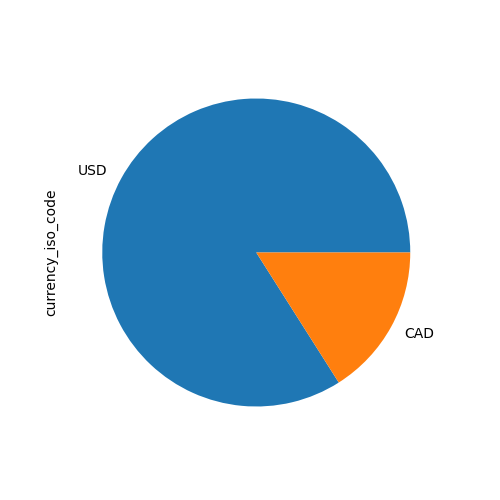
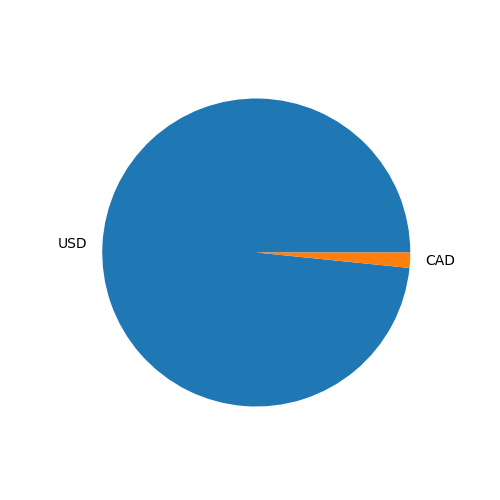
add big query

diff --git a/hearbly/static/CSS/app.css b/hearbly/static/CSS/app.css
@@ -351,6 +351,52 @@ h2{
         opacity: 0;
     }
 }
+.pulse_google_cloud{
+    height: 150px;
+    width: 150px;
+    background: linear-gradient(
+        #c53939,
+        #f77c4c
+    );
+    position: absolute;
+    margin: auto;
+    left: 260px;
+    right: 0;
+    top: 180px;
+    bottom: 0;
+    border-radius: 50%;
+    display: grid;
+    place-items: center;
+    font-size: 50px;
+    color: #ffffff;
+}
+.pulse_google_cloud:before,
+.pulse_google_cloud:after{
+    content: "";
+    position: absolute;
+    height: 100%;
+    width: 100%;
+    background-color: #c41c1c;
+    border-radius: 50%;
+    z-index: -1;
+    opacity: 0.7;
+}
+.pulse_google_cloud:before{
+    animation: pulse 2s ease-out infinite;
+}
+.pulse_google_cloud:after{
+    animation: pulse 2s 1s ease-out infinite;
+}
+@keyframes pulse{
+    100%{
+        transform: scale(2.5);
+        opacity: 0;
+    }
+}
+.pulse_google_cloud.show{
+    visibility: hidden;
+    opacity: 0;
+}
 .app_type,
 .app_type_center,
 .app_type_two{
@@ -359,6 +405,21 @@ h2{
     display: flex;
     justify-content: center;
     border: none;
+}
+.urlme{
+    padding: 16px 150px 16px 150px;
+    border: none;
+    box-shadow: 5px 5px 4px #949497;
+    height: 40%;
+    transition: all 0.5s linear;
+    margin-top: 3%;
+    visibility: hidden;
+    opacity: 0;
+}
+.urlme.show{
+    visibility: visible;
+    opacity: 1;
+    transition: all 0.5s linear;
 }
 .app_one,
 .app_three,
@@ -377,15 +438,15 @@ h2{
     transition: all 0.3s linear;
 }
 .app_one:hover{
-    background-color: rgb(193, 196, 214);
+    background-color: rgb(18, 155, 13);
     transition: all 0.3s linear;
 }
 .app_four:hover{
-    background-color: rgb(193, 196, 214);
+    background-color: rgb(13, 86, 170);
     transition: all 0.3s linear;
 }
 .app_three:hover{
-    background-color: rgb(193, 196, 214);
+    background-color:rgb(212, 39, 39);
     transition: all 0.3s linear;
 }
 .image-upload input[type = submit]{

diff --git a/hearbly/templates/google_cloud_data_base.html b/hearbly/templates/google_cloud_data_base.html
@@ -1,0 +1,45 @@
+{% extends "base_app.html" %}
+{% block test %}
+<title>{{title}}</title>
+<div class="app_data">
+    <div class="app_data_title">
+        <h2>Welcome To Hearbly Data System</h2>
+        <h3>We ask you to respect the files mentioned below to get the best results</h3>
+    </div>
+    {% if message %}
+    <p style="color:red;">{{message}}</p>
+    {% endif %}
+        <div class="app_type">
+            <div class="app_one">
+                <a href="/Data Base">
+                    <img src="{{url_for('static' , filename = 'APPLICATION/excel.png')}}">
+                    <h3>Excel Document</h3>
+                </a>
+            </div>
+        </div>
+        <div class="app_type_center">
+            <form action="/Data Base Bigquery" method="POST">
+                <input oninput="submit()" name="big_query" class="urlme" type="text" placeholder="Write The SQL Of The Project" required> 
+            </form>
+            <div class="pulse_google_cloud" onclick="show_me()">
+                <div class="image-upload">   
+                    <img src="{{url_for('static' , filename ='IMAGES/data_base_picture.png')}}"/>
+                </div>
+            </div>
+        </div>
+        <div class="app_type_two">
+            <div class="app_three">
+                <a href="/Data Base Bigquery">
+                    <img src="{{url_for('static' , filename = 'APPLICATION/google.png')}}">
+                    <h3>Google Cloud</h3>
+                </a>
+            </div>
+            <div class="app_four">
+                <a href="#">
+                    <img src="{{url_for('static' , filename = 'APPLICATION/word.png')}}">
+                    <h3>Word Document</h3>
+                </a>
+            </div>
+        </div>
+    </div>
+{% endblock test %}

diff --git a/hearbly/templates/app.html b/hearbly/templates/app.html
@@ -11,8 +11,10 @@
         {% endif %}
             <div class="app_type">
                 <div class="app_one">
-                    <img src="{{url_for('static' , filename = 'APPLICATION/excel.png')}}">
-                    <h3>Excel Document</h3>
+                    <a href="/Data Base">
+                        <img src="{{url_for('static' , filename = 'APPLICATION/excel.png')}}">
+                        <h3>Excel Document</h3>
+                    </a>
                 </div>
             </div>
             <div class="app_type_center">
@@ -27,12 +29,16 @@
             </div>
             <div class="app_type_two">
                 <div class="app_three">
-                    <img src="{{url_for('static' , filename = 'APPLICATION/google.png')}}">
-                    <h3>Google Cloud</h3>
+                    <a href="/Data Base Bigquery">
+                        <img src="{{url_for('static' , filename = 'APPLICATION/google.png')}}">
+                        <h3>Google Cloud</h3>
+                    </a>
                 </div>
                 <div class="app_four">
-                    <img src="{{url_for('static' , filename = 'APPLICATION/word.png')}}">
-                    <h3>Word Document</h3>
+                    <a href="#">
+                        <img src="{{url_for('static' , filename = 'APPLICATION/word.png')}}">
+                        <h3>Word Document</h3>
+                    </a>
                 </div>
             </div>
         </div>

diff --git a/hearbly/templates/data_base.html b/hearbly/templates/data_base.html
@@ -32,7 +32,7 @@
                 <p>A graphe that contient all payment amount from all client </p>
             </div>
             <div class="data_base_plat">
-                <img src="../static/PYPLOT/plot.png">
+                <img src="{{url_for('static' , filename = 'PYPLOT/plot.png')}}">
             </div>
         </div>
         {% endif %}
@@ -42,7 +42,7 @@
                 <p>A graphe that contient the payment Type</p>
             </div>
             <div class="data_base_piee">
-                <img src="../static/PIEPLOT/pie.png">
+                <img src="{{url_for('static' , filename = 'PIEPLOT/pie.png')}}">
             </div>
         </div>
     </div> 

diff --git a/hearbly/static/JS/script.js b/hearbly/static/JS/script.js
@@ -13,3 +13,9 @@ function menu(){
 function submit(){ 
     document.submit.submit()
 }
+function show_me(){
+    const urlme = document.querySelector(".urlme")
+    const pusle = document.querySelector(".pulse_google_cloud")
+    urlme.classList.toggle('show')
+    pusle.classList.toggle('show')
+}

diff --git a/hearbly/static/CSS/data_base.css b/hearbly/static/CSS/data_base.css
@@ -130,10 +130,10 @@ p{
     border: none;
 }
 .data_base_piee img{
-    width: 400px;
-    height: 400px;
+    width: 100%;
+    height:100%;
 }
 .data_base_plat img{
-    width: 900px;
-    height: 400px;
+    width: 100%;
+    height: 100%;
 }

diff --git a/hearbly/pandas.py b/hearbly/pandas.py
@@ -1,18 +1,21 @@
-def request_data_base(base):
+def request_data_base(base , type):
     data_base = {}
     import pandas as pd
     import matplotlib.pyplot as plt
-    db = pd.read_excel(base)
-    data_base['amount'] = format(sum(db['amount']),".2f")
-    data_base['client'] = db.shape[0]
-    data_base['herblyUSD'] = int(db.loc[db['merchant_account_id'] == 'herbalyUSD' , 'merchant_account_id'].value_counts())
-    data_base['herblyCAD'] = int(db.loc[db['merchant_account_id'] == 'herbalyCAD' , 'merchant_account_id'].value_counts())
-    return data_base
+    from pandas.io import gbq
+    if type == 'Excel':
+        db = pd.read_excel(base)
+        data_base['amount'] = format(sum(db['amount']),".2f")
+        data_base['client'] = db.shape[0]
+        data_base['herblyUSD'] = int(db.loc[db['merchant_account_id'] == 'herbalyUSD' , 'merchant_account_id'].value_counts())
+        data_base['herblyCAD'] = int(db.loc[db['merchant_account_id'] == 'herbalyCAD' , 'merchant_account_id'].value_counts())
+        return data_base
+    elif type == 'Query':
+        dp = str(base)
+        dp = gbq.read_gbq(dp , project_id='herbalites')
+        data_base['amount'] = format(sum(dp['amount']),".2f")
+        data_base['client'] = dp.shape[0]
+        data_base['herblyUSD'] = int(dp.loc[dp['merchant_account_id'] == 'herbalyUSD' , 'merchant_account_id'].value_counts())
+        data_base['herblyCAD'] = int(dp.loc[dp['merchant_account_id'] == 'herbalyCAD' , 'merchant_account_id'].value_counts())
+        return data_base
 
-def make_plot(base):
-    import pandas as pd
-    import matplotlib.pyplot as plt 
-    db = pd.read_excel(base)
-    db['amount'].plot.area(color ='#44AA99', figsize=(9, 6))
-    plt.savefig("hearbly/static/PYPLOT/plot.png" , transparent=True)
-    plt.figure()

diff --git a/hearbly/routes.py b/hearbly/routes.py
@@ -5,9 +5,8 @@ from hearbly import app ,db
 from hearbly.models import User ,Register
 from hearbly import send_email
 from hearbly.send_email import send_email
-from hearbly.pandas import request_data_base , make_plot
-from hearbly.pyplot import make_pie
-
+from hearbly.pandas import request_data_base 
+from hearbly.pyplot import  make_plot , make_pie
 #route for the home page
 @app.route("/", methods = ['GET','POST'])
 def index():
@@ -146,11 +145,22 @@ def data_base():
     if request.method == 'POST':
         session['make'] = request.form.get("test")
         base = 'hearbly/static/EXCEL/'+session['make']
-        data_base = request_data_base(base)
-        make_plot(base)
-        make_pie(base)
+        data_base = request_data_base(base, 'Excel')
+        make_plot(base,'Excel')
+        make_pie(base ,'Excel')
         return render_template("data_base.html" , data = info_all, data_base = data_base ,title = 'Data Base Result')
     return render_template("app.html" , title = 'Data Base Query', data = info_all)
+
+#route for database with big query
+@app.route("/Data Base Bigquery" , methods = ['GET','POST'])
+def google_cloud():
+    if request.method == 'POST':
+        session['big_query'] = request.form.get("big_query")
+        data_base = request_data_base(session['big_query'],'Query')
+        make_plot(session['big_query'],'Query')
+        make_pie(session['big_query'] ,'Query')
+        return render_template("data_base.html" , data = info_all, data_base = data_base ,title = 'Data Base Result')
+    return render_template("google_cloud_data_base.html" , title = "Data Base Query" , data = info_all)
 
 #route for data base result
 @app.route("/Data base result" , methods = ['GET','POST'])

diff --git a/hearbly/pyplot.py b/hearbly/pyplot.py
@@ -1,7 +1,33 @@
-def make_pie(base):
+def make_plot(base , type):
+    import pandas as pd
+    import matplotlib.pyplot as plt
+    from pandas.io import gbq
+    if type == 'Excel': 
+        db = pd.read_excel(base)
+        db['amount'].plot.area(color ='#44AA99', figsize=(9, 6))
+        plt.savefig("hearbly/static/PYPLOT/plot.png" , transparent=True)
+        plt.figure()
+    elif type == 'Query':
+        dp = str(base)
+        dp = gbq.read_gbq(dp , project_id='herbalites')
+        dp['amount'].plot.area(color ='#44AA99', figsize=(9, 6))
+        plt.savefig("hearbly/static/PYPLOT/plot.png" , transparent=True)
+        plt.figure()
+
+def make_pie(base , type):
     import pandas as ps
     import matplotlib.pyplot as plot
-    dp = ps.read_excel(base)
-    dp['currency_iso_code'].value_counts().plot.pie(figsize=(5, 5))
-    plot.savefig('hearbly/static/PIEPLOT/pie.png', transparent=True)
-    plot.figure()
+    from pandas.io import gbq
+    if type == 'Excel':
+        db = ps.read_excel(base)
+        db['currency_iso_code'].value_counts().plot.pie(figsize=(5, 5))
+        plot.ylabel('')
+        plot.savefig('hearbly/static/PIEPLOT/pie.png', transparent=True)
+        plot.figure()
+    elif type == 'Query':
+        dp = str(base)
+        dp = gbq.read_gbq(dp , project_id='herbalites')
+        dp['currency_iso_code'].value_counts().plot.pie(figsize=(5, 5))
+        plot.ylabel('')
+        plot.savefig('hearbly/static/PIEPLOT/pie.png', transparent=True)
+        plot.figure()
